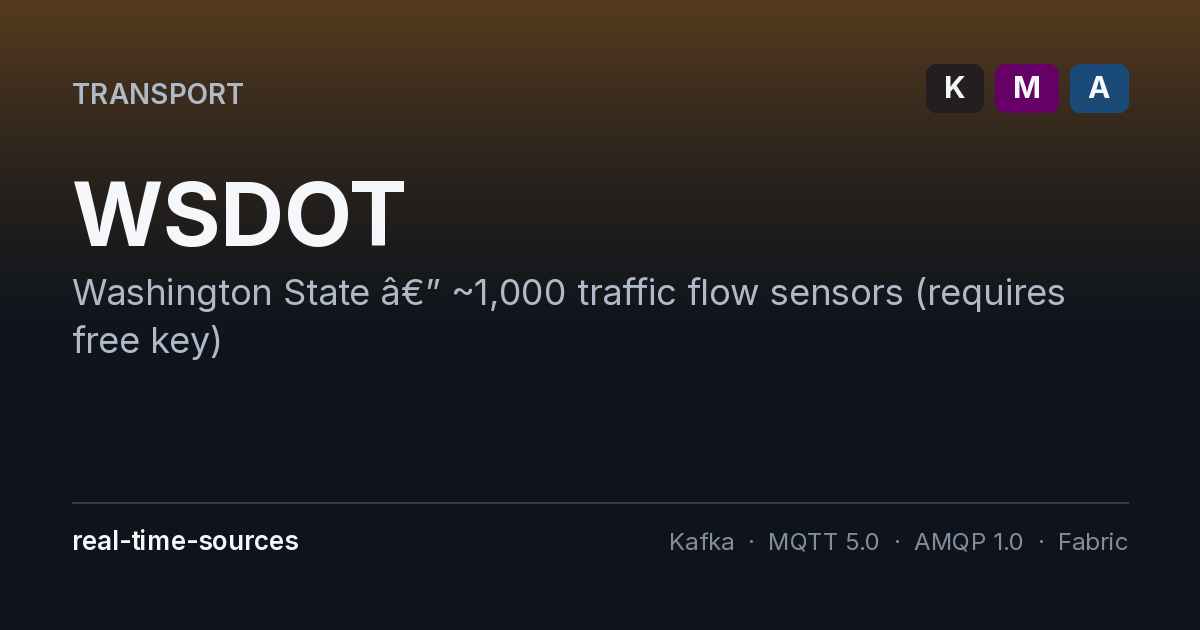
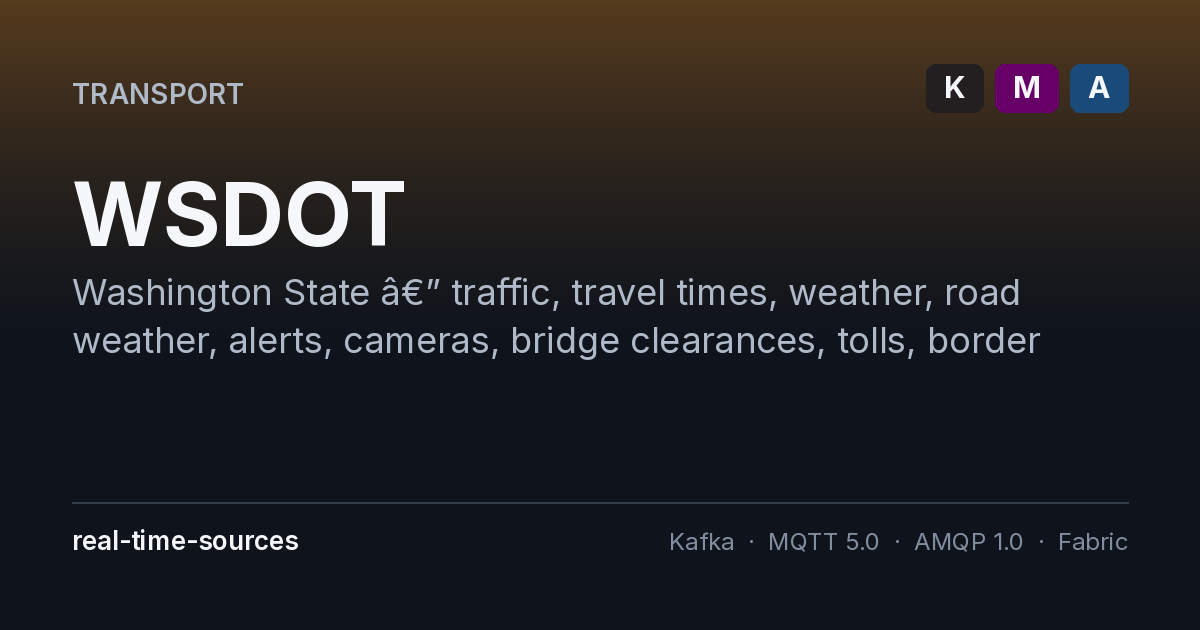
Sync catalog and share pages from main

Changed region(s): [[0.0617, 0.5127, 0.8633, 0.573], [0.37, 0.4222, 0.8942, 0.4825]]

diff --git a/share/wsdot/index.html b/share/wsdot/index.html
@@ -4,7 +4,7 @@
 <meta charset="UTF-8">
 <meta name="viewport" content="width=device-width, initial-scale=1.0">
 <title>WSDOT — real-time-sources</title>
-<meta name="description" content="Transport — Washington State â€” ~1,000 traffic flow sensors (requires free key)">
+<meta name="description" content="Transport — Washington State â€” traffic, travel times, weather, road weather, alerts, cameras, bridge clearances, tolls, border waits &amp; ferries (requires free key)">
 
 <!-- Canonical points at the SPA route, not this redirect shell. -->
 <link rel="canonical" href="https://clemensv.github.io/real-time-sources/#wsdot">
@@ -13,22 +13,22 @@
 <meta property="og:type" content="website">
 <meta property="og:site_name" content="real-time-sources">
 <meta property="og:title" content="WSDOT">
-<meta property="og:description" content="Transport — Washington State â€” ~1,000 traffic flow sensors (requires free key)">
+<meta property="og:description" content="Transport — Washington State â€” traffic, travel times, weather, road weather, alerts, cameras, bridge clearances, tolls, border waits &amp; ferries (requires free key)">
 <meta property="og:url" content="https://clemensv.github.io/real-time-sources/share/wsdot/">
 <meta property="og:image" content="https://clemensv.github.io/real-time-sources/share/wsdot/og.png">
 <meta property="og:image:secure_url" content="https://clemensv.github.io/real-time-sources/share/wsdot/og.png">
 <meta property="og:image:type" content="image/png">
 <meta property="og:image:width" content="1200">
 <meta property="og:image:height" content="630">
-<meta property="og:image:alt" content="WSDOT — Transport — Washington State â€” ~1,000 traffic flow sensors (requires free key)">
+<meta property="og:image:alt" content="WSDOT — Transport — Washington State â€” traffic, travel times, weather, road weather, alerts, cameras, bridge clearances, tolls, border waits &amp; ferries (requires free key)">
 <meta property="og:locale" content="en_US">
 
 <!-- Twitter / X Card -->
 <meta name="twitter:card" content="summary_large_image">
 <meta name="twitter:title" content="WSDOT">
-<meta name="twitter:description" content="Transport — Washington State â€” ~1,000 traffic flow sensors (requires free key)">
+<meta name="twitter:description" content="Transport — Washington State â€” traffic, travel times, weather, road weather, alerts, cameras, bridge clearances, tolls, border waits &amp; ferries (requires free key)">
 <meta name="twitter:image" content="https://clemensv.github.io/real-time-sources/share/wsdot/og.png">
-<meta name="twitter:image:alt" content="WSDOT — Transport — Washington State â€” ~1,000 traffic flow sensors (requires free key)">
+<meta name="twitter:image:alt" content="WSDOT — Transport — Washington State â€” traffic, travel times, weather, road weather, alerts, cameras, bridge clearances, tolls, border waits &amp; ferries (requires free key)">
 
 <!-- JSON-LD: Dataset descriptor for search engines -->
 <script type="application/ld+json">
@@ -36,7 +36,7 @@
   "@context": "https://schema.org",
   "@type": "Dataset",
   "name": "WSDOT",
-  "description": "Transport — Washington State â€” ~1,000 traffic flow sensors (requires free key)",
+  "description": "Transport — Washington State â€” traffic, travel times, weather, road weather, alerts, cameras, bridge clearances, tolls, border waits & ferries (requires free key)",
   "url": "https://clemensv.github.io/real-time-sources/#wsdot",
   "image": "https://clemensv.github.io/real-time-sources/share/wsdot/og.png",
   "isAccessibleForFree": true,
@@ -85,9 +85,9 @@
 </head>
 <body>
 <main class="card">
-  <img class="preview" src="og.png" alt="WSDOT — Transport — Washington State â€” ~1,000 traffic flow sensors (requires free key)" width="1200" height="630">
+  <img class="preview" src="og.png" alt="WSDOT — Transport — Washington State â€” traffic, travel times, weather, road weather, alerts, cameras, bridge clearances, tolls, border waits &amp; ferries (requires free key)" width="1200" height="630">
   <h1>WSDOT</h1>
-  <p>Transport — Washington State â€” ~1,000 traffic flow sensors (requires free key)</p>
+  <p>Transport — Washington State â€” traffic, travel times, weather, road weather, alerts, cameras, bridge clearances, tolls, border waits &amp; ferries (requires free key)</p>
   <a class="cta" href="https://clemensv.github.io/real-time-sources/#wsdot">Open in real-time-sources&nbsp;→</a>
   <p class="meta">Redirecting&hellip; if nothing happens, click the button above.</p>
 </main>

diff --git a/share/index.html b/share/index.html
@@ -123,7 +123,7 @@
 <li><a href="waterinfo-vmm/">Waterinfo VMM</a> — <span style="color:#8590a0">Belgium / Flanders â€” ~1,785 stations</span></li>
 <li><a href="wikimedia-eventstreams/">Wikimedia EventStreams</a> — <span style="color:#8590a0">Global â€” Wikipedia, Wikidata, Commons recent changes</span></li>
 <li><a href="wikimedia-osm-diffs/">OpenStreetMap Diffs</a> — <span style="color:#8590a0">Global â€” OSM minutely replication diffs</span></li>
-<li><a href="wsdot/">WSDOT</a> — <span style="color:#8590a0">Washington State â€” ~1,000 traffic flow sensors (requires free key)</span></li>
+<li><a href="wsdot/">WSDOT</a> — <span style="color:#8590a0">Washington State â€” traffic, travel times, weather, road weather, alerts, cameras, bridge clearances, tolls, border waits &amp; ferries (requires free key)</span></li>
 <li><a href="xceed/">Xceed</a> — <span style="color:#8590a0">Europe â€” clubs, bars, parties, festivals â€” event schedules</span></li>
 </ul>
 </body></html>
